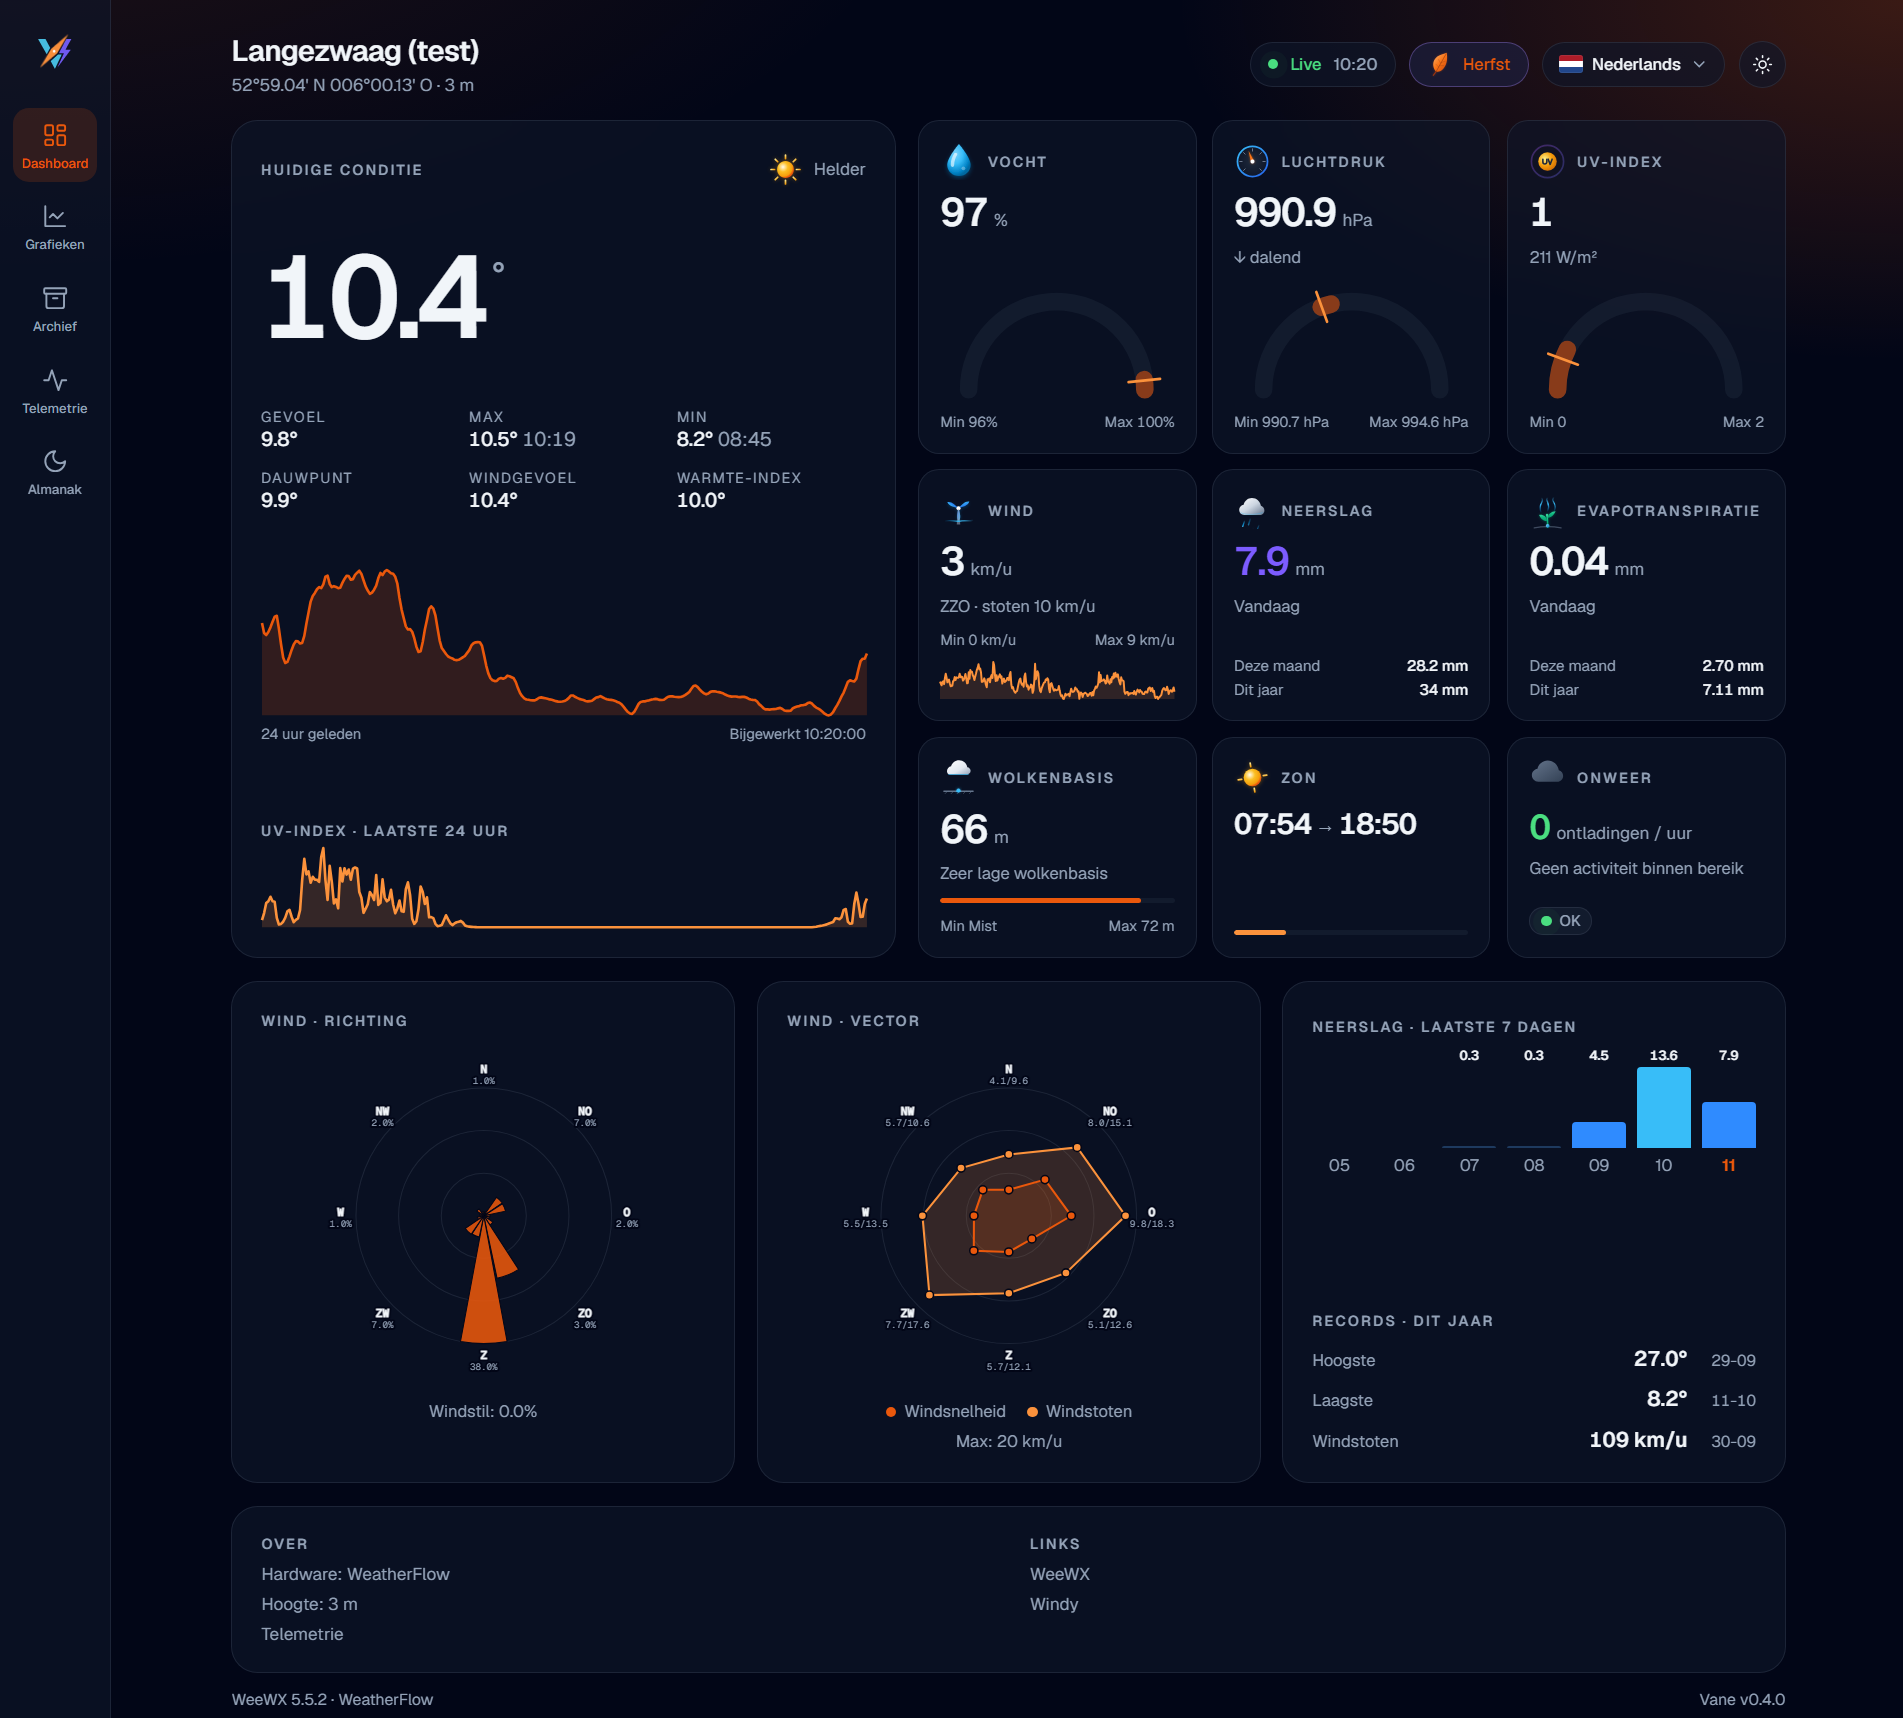
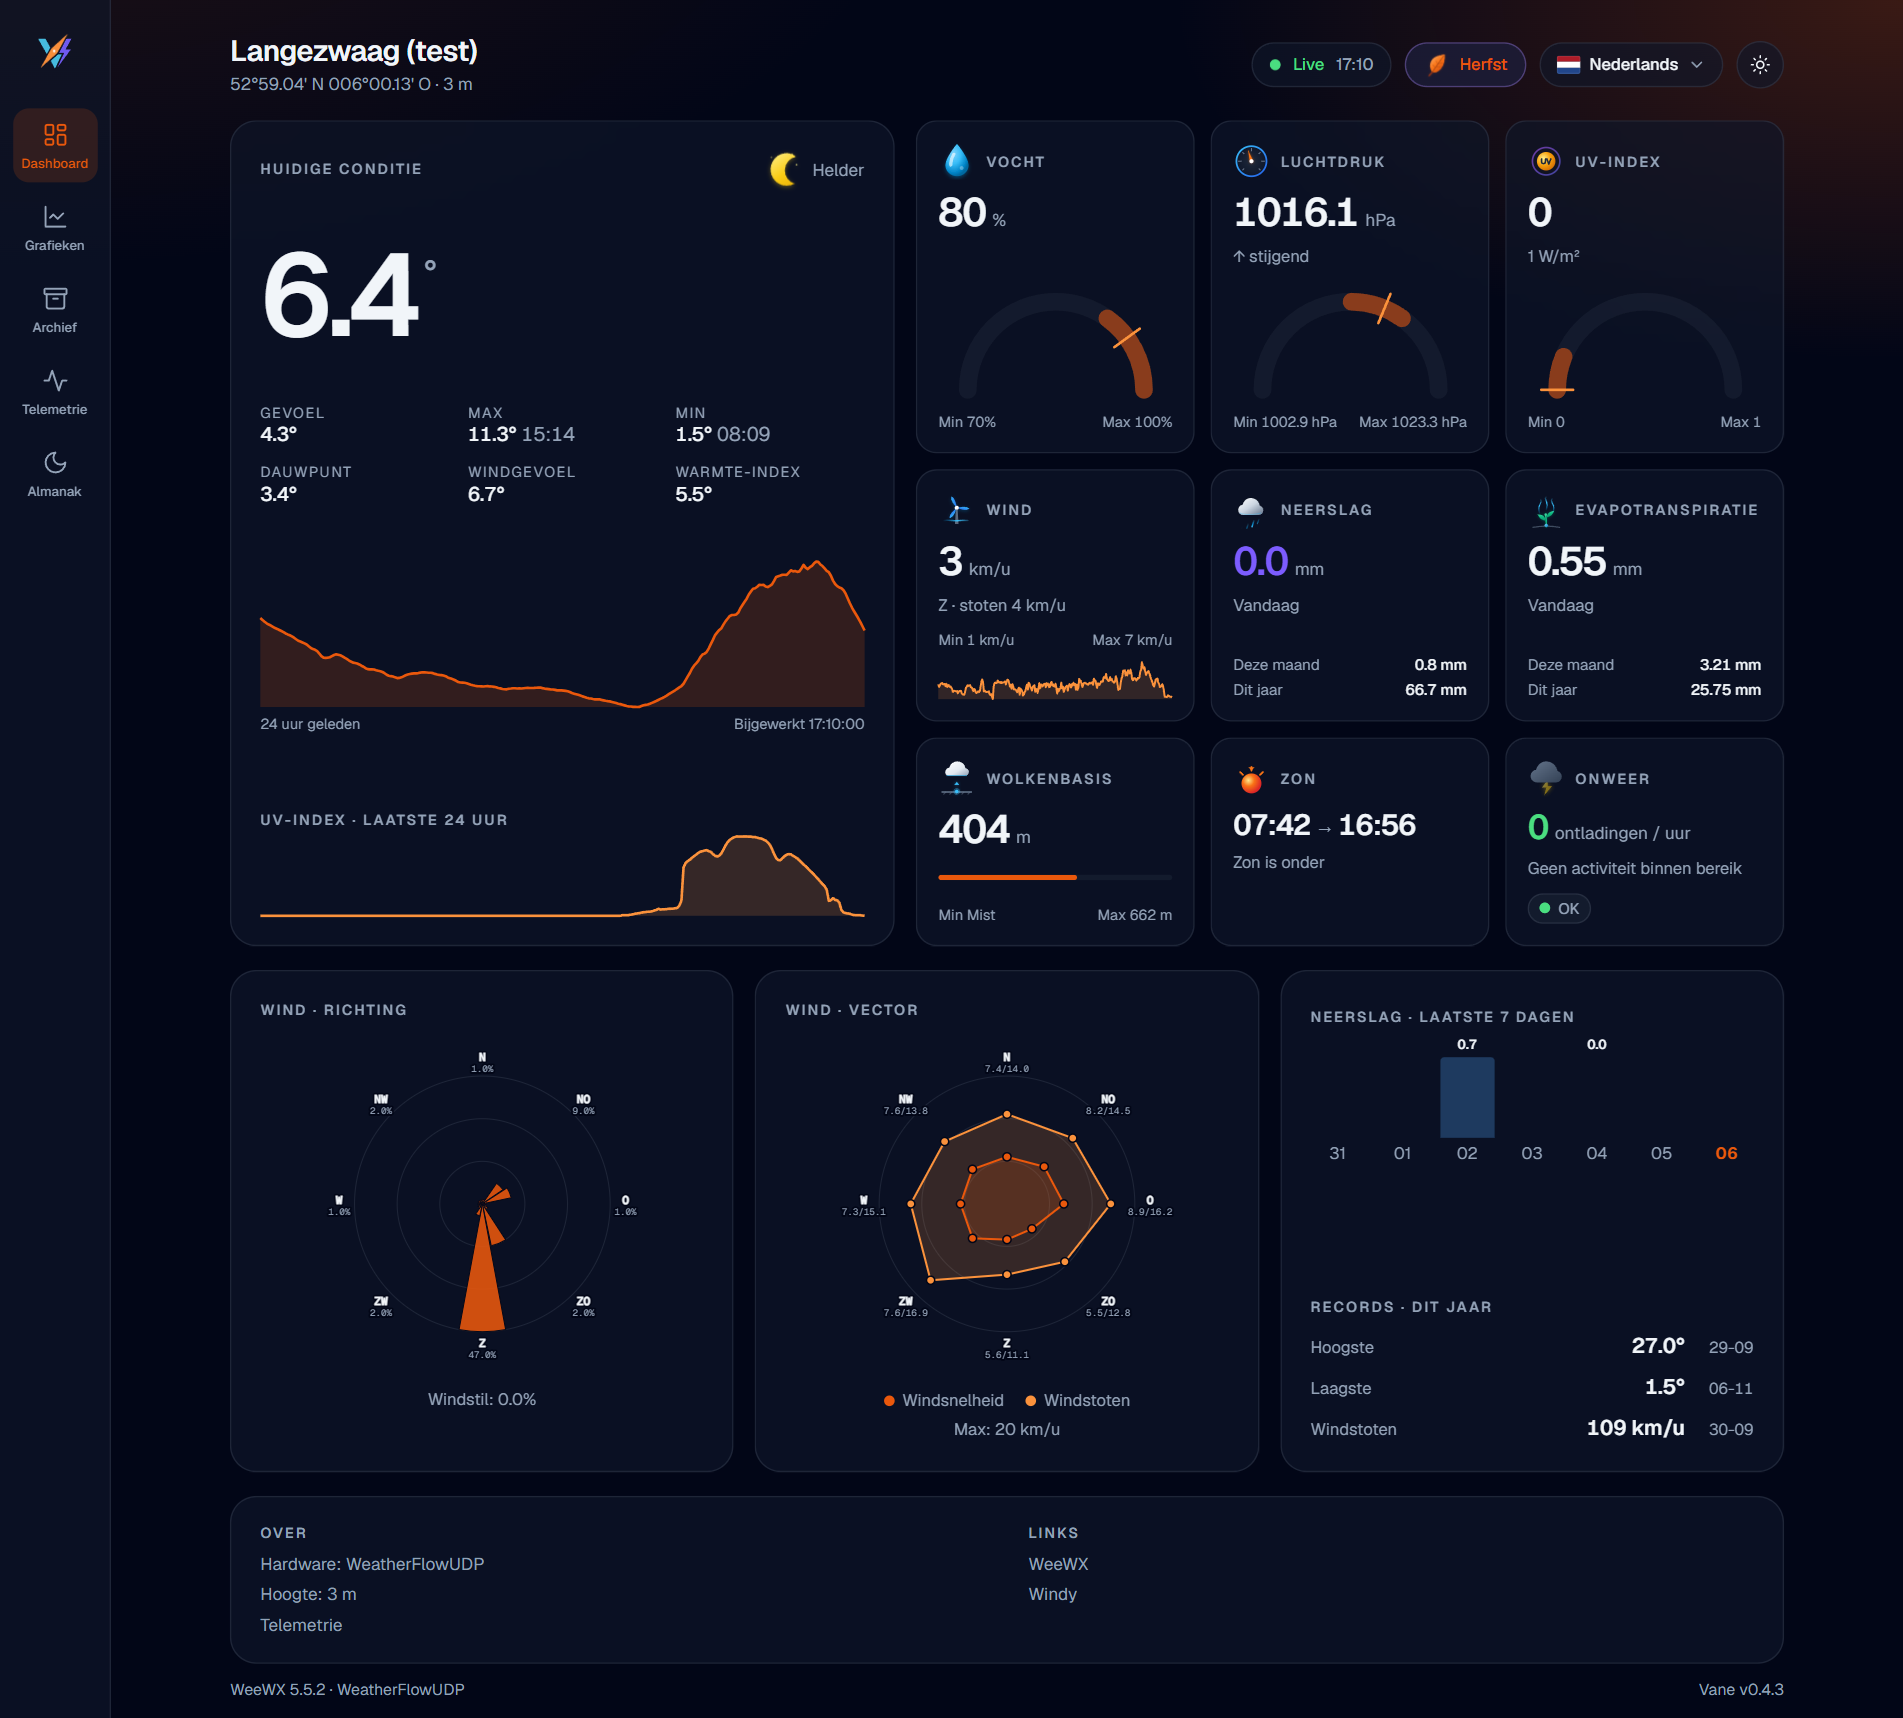
Fix mobile tile label size; README: new dashboard images incl. phone
The mobile .tile-label rule lost to the base rule later in vane.css, so
long labels still wrapped badly.

diff --git a/skins/Vane/static/css/vane.css b/skins/Vane/static/css/vane.css
@@ -569,8 +569,10 @@ a:hover {
     min-width: 0;
   }
 
-  .tile-label {
-    letter-spacing: 0;
+  /* ".tile" prefix: the base .tile-label rule comes later in this file. */
+  .tile .tile-label {
+    font-size: 10px;
+    letter-spacing: .04em;
     overflow-wrap: anywhere;
   }
 

diff --git a/README.md b/README.md
@@ -13,7 +13,10 @@ Tempest data (not just the Simulator): Dashboard, Graphs, Archive, Telemetry
 and Almanac are all there. See `docs/DASHBOARD_EXPANSION_PLAN.md` for the
 status per component.
 
-![Vane dashboard, dark theme](docs/images/dashboard.png)
+<p>
+  <img src="docs/images/dashboard.png" alt="Vane dashboard on a desktop, dark theme" height="520">
+  <img src="docs/images/dashboard-mobile.png" alt="Vane dashboard on a phone, with the navigation as a bottom bar" height="520">
+</p>
 
 ## Features
 
@@ -27,6 +30,8 @@ status per component.
   arc, twilight, moon phases, day length through the year, seasons).
 - **Three languages** out of the box — Dutch, English, German — each a
   fully generated report with a language switcher; more can be added.
+- **Works on phones**: below 640 px the menu becomes a bottom bar, and charts
+  follow the screen when you rotate it.
 - **Light/dark theme** and a **seasonal accent colour** (spring green,
   summer amber, autumn copper, winter ice blue) that follows the current
   season site-wide, or a fixed colour of your choice.
